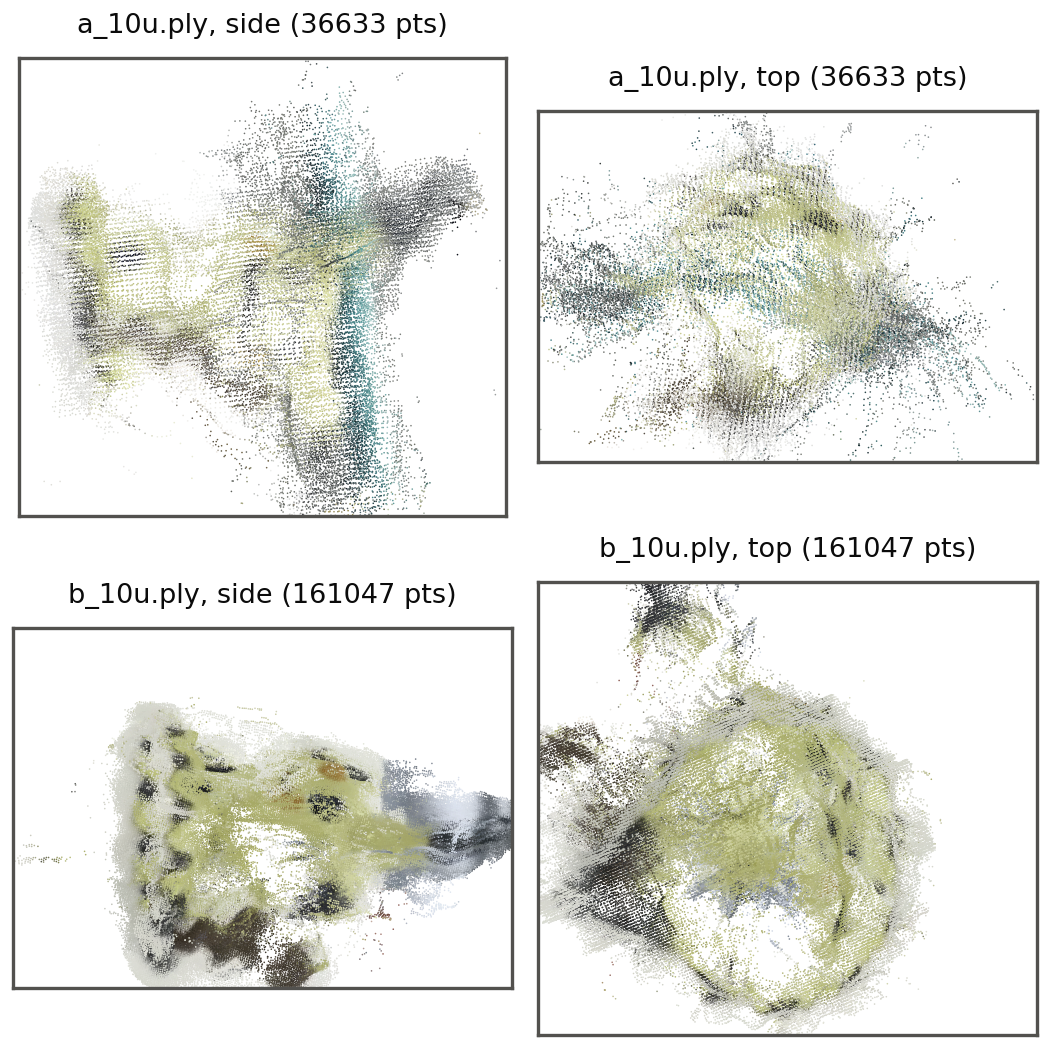
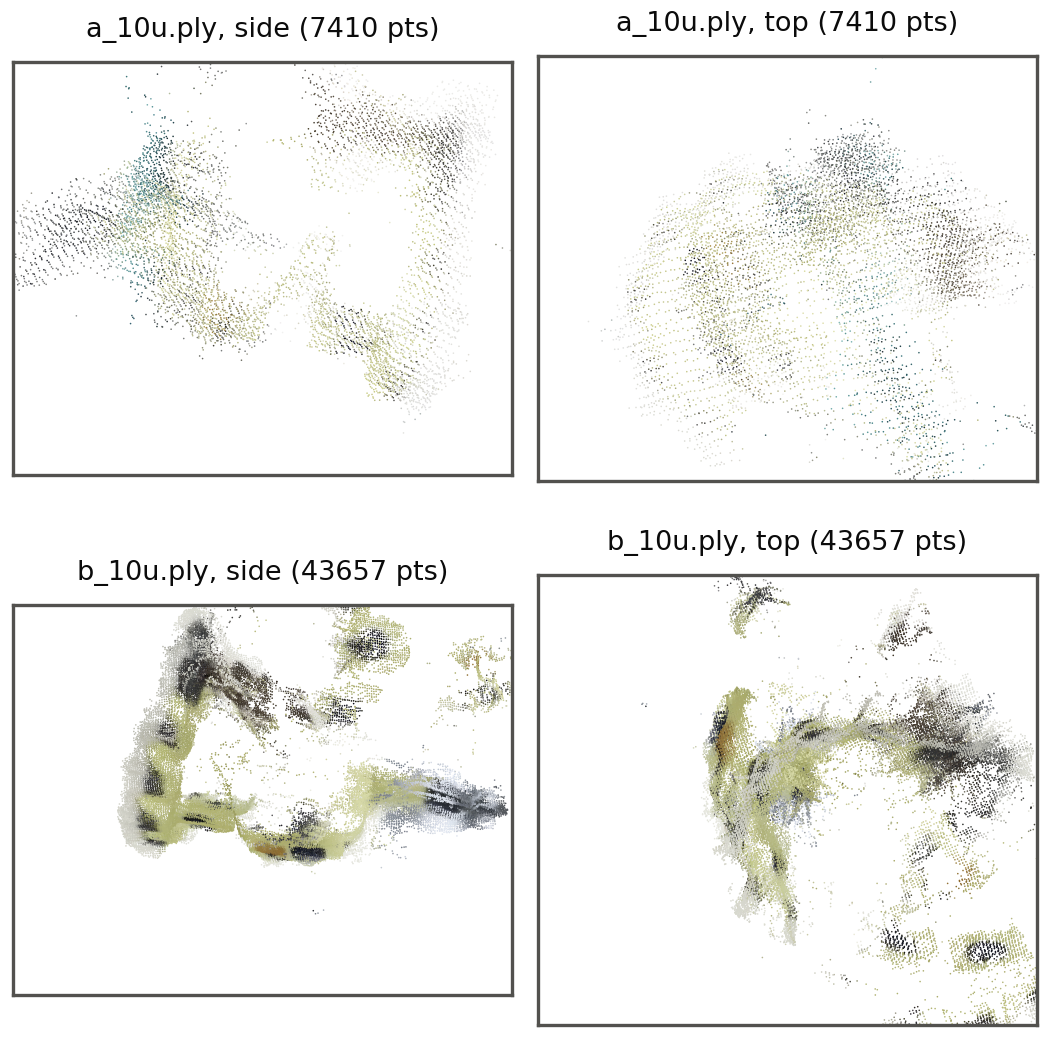
Report figures and results table from the CI-image run (OpenCV 5.0)

diff --git a/mypylibs/report_figures.py b/mypylibs/report_figures.py
@@ -2,7 +2,8 @@
 
     python -m mypylibs.report_figures [results_dir]     # default: out
 
-Writes assets/latex/step7_sensitivity.png and assets/latex/step6_clouds.png.
+Writes assets/latex/step7_sensitivity.png, assets/latex/step6_clouds.png and
+assets/latex/results_table.tex.
 """
 
 import csv
@@ -85,6 +86,24 @@ def clouds(results, plt, names=('a_10u', 'b_10u')):
     plt.close(fig)
 
 
+def table(rows):
+    """LaTeX table of the 12 runs -> assets/latex/results_table.tex (\\input it in the report)."""
+    order = {(v, u, f): k for k, (v, u, f) in enumerate(
+        (v, u, f) for v in 'ab' for u in ('True', 'False') for f in ('0.8', '1.0', '1.2'))}
+    rows = sorted(rows, key=lambda r: order.get((r['video'], r['undistorted'], r['focal_factor']), 99))
+    lines = [r'\begin{table}[t]', r'\caption{Results of the 12 runs (u: undistorted, d: distorted).}',
+             r'\label{tab:results}', r'\centering\scriptsize\setlength{\tabcolsep}{3pt}',
+             r'\begin{tabular}{lrrrrrr}', r'\hline',
+             r'Run & Swept ($^\circ$) & Gap & BA (px) & PnP fail & Sparse & Dense \\', r'\hline']
+    for r in rows:
+        lines.append(f"\\texttt{{{r['run'].replace('_', chr(92) + '_')}}} & {float(r['swept_deg']):.0f} & "
+                     f"{float(r['closure_gap']):.2f} & {float(r['ba_err_px']):.2f} & {r['pnp_fallbacks']} & "
+                     f"{r['sparse_points']} & {r['dense_points']} \\\\")
+    lines += [r'\hline', r'\end{tabular}', r'\end{table}']
+    with open(opath.join(OUT_DIR, 'results_table.tex'), 'w') as f:
+        f.write('\n'.join(lines) + '\n')
+
+
 def main(results='out'):
     import matplotlib
     matplotlib.use('Agg')
@@ -94,6 +113,7 @@ def main(results='out'):
         rows = list(csv.DictReader(f))
     sensitivity(rows, plt)
     clouds(results, plt)
+    table(rows)
 
 
 if __name__ == '__main__':

diff --git a/assets/latex/results_table.tex b/assets/latex/results_table.tex
@@ -1,0 +1,23 @@
+\begin{table}[t]
+\caption{Results of the 12 runs (u: undistorted, d: distorted).}
+\label{tab:results}
+\centering\scriptsize\setlength{\tabcolsep}{3pt}
+\begin{tabular}{lrrrrrr}
+\hline
+Run & Swept ($^\circ$) & Gap & BA (px) & PnP fail & Sparse & Dense \\
+\hline
+\texttt{a\_08u} & 258 & 2.21 & 0.56 & 3 & 3612 & 10511 \\
+\texttt{a\_10u} & 279 & 2.10 & 0.50 & 3 & 6241 & 7410 \\
+\texttt{a\_12u} & 285 & 1.83 & 0.49 & 4 & 9938 & 6128 \\
+\texttt{a\_08d} & 192 & 3.00 & 0.52 & 6 & 7434 & 6128 \\
+\texttt{a\_10d} & 300 & 1.14 & 0.34 & 1 & 10195 & 16864 \\
+\texttt{a\_12d} & 354 & 0.29 & 0.36 & 0 & 12636 & 19263 \\
+\texttt{b\_08u} & 300 & 1.13 & 0.54 & 0 & 2633 & 48855 \\
+\texttt{b\_10u} & 287 & 1.47 & 0.54 & 0 & 2672 & 43657 \\
+\texttt{b\_12u} & 122 & 4.11 & 0.58 & 2 & 2149 & 20030 \\
+\texttt{b\_08d} & 58 & 3.38 & 0.64 & 10 & 1037 & 132 \\
+\texttt{b\_10d} & 91 & 3.73 & 0.65 & 7 & 1211 & 1410 \\
+\texttt{b\_12d} & 41 & 5.02 & 0.61 & 4 & 709 & 313 \\
+\hline
+\end{tabular}
+\end{table}
